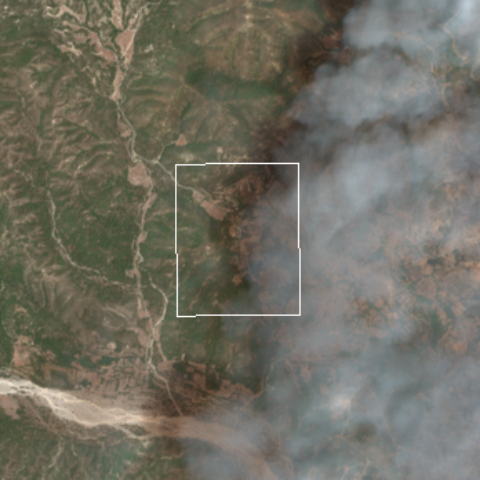
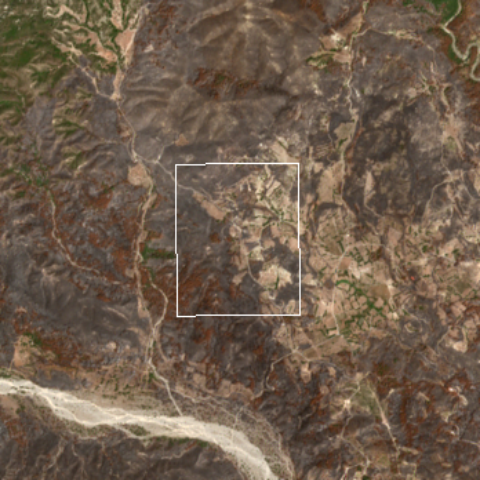
Rhodes after-image from a clear post-smoke scene; serif wordmark on the landing panel
Claude-Session: https://claude.ai/code/session_01N3BHHUS3sgoXj3c9ThdTmV

diff --git a/web/index.html b/web/index.html
@@ -7,7 +7,7 @@
 <meta name="description" content="Did it change more than it would have anyway? Draw an area, name the event, and compare it against matched controls that did not get it.">
 <link rel="preconnect" href="https://fonts.googleapis.com">
 <link rel="preconnect" href="https://fonts.gstatic.com" crossorigin>
-<link href="https://fonts.googleapis.com/css2?family=Inter:wght@400;500;600&display=swap" rel="stylesheet">
+<link href="https://fonts.googleapis.com/css2?family=Inter:wght@400;500;600&family=Instrument+Serif&display=swap" rel="stylesheet">
 <link rel="stylesheet" href="https://cdnjs.cloudflare.com/ajax/libs/leaflet/1.9.4/leaflet.min.css">
 <link rel="stylesheet" href="https://cdnjs.cloudflare.com/ajax/libs/leaflet.draw/1.0.4/leaflet.draw.css">
 <link rel="stylesheet" href="/static/app.css">

diff --git a/web/landing.css b/web/landing.css
@@ -63,3 +63,7 @@
 .place-search-row .btn { flex: none; padding: 8px 14px; font-size: 13px; }
 .place-search-note { font-size: 12px; color: var(--muted); margin-top: 6px; }
 .place-search-error { font-size: 12px; color: var(--muted); margin-top: 6px; }
+
+/* serif wordmark + tagline, matching the verdict hero */
+.panel .wordmark, .wordmark { font-family: "Instrument Serif", Georgia, serif; font-weight: 400; font-size: 30px; letter-spacing: -0.01em; }
+.panel .tagline, .tagline { font-family: "Instrument Serif", Georgia, serif; font-size: 22px; line-height: 1.25; color: var(--ink); }

diff --git a/src/app/imagery.py b/src/app/imagery.py
@@ -95,7 +95,8 @@ def make_thumbnails(area_geojson: dict, event_date: str, out_dir: str, run_id: s
         scenes = [s for s in scenes if (s.epsg or epsg) == epsg]
         zones = Zones.build([sq, area.utm], area.epsg, epsg)
         sc, cf = _best_scene(prov, scenes, zones, None, after)
-        if sc is None or cf < 0.9:
+        # burnt or flooded ground is often classed "dark", not cloud: accept a lower clear share after the event
+        if sc is None or cf < (0.6 if after else 0.9):
             continue
         path = os.path.join(out_dir, f"{run_id}_{tag}.png")
         os.makedirs(out_dir, exist_ok=True)
